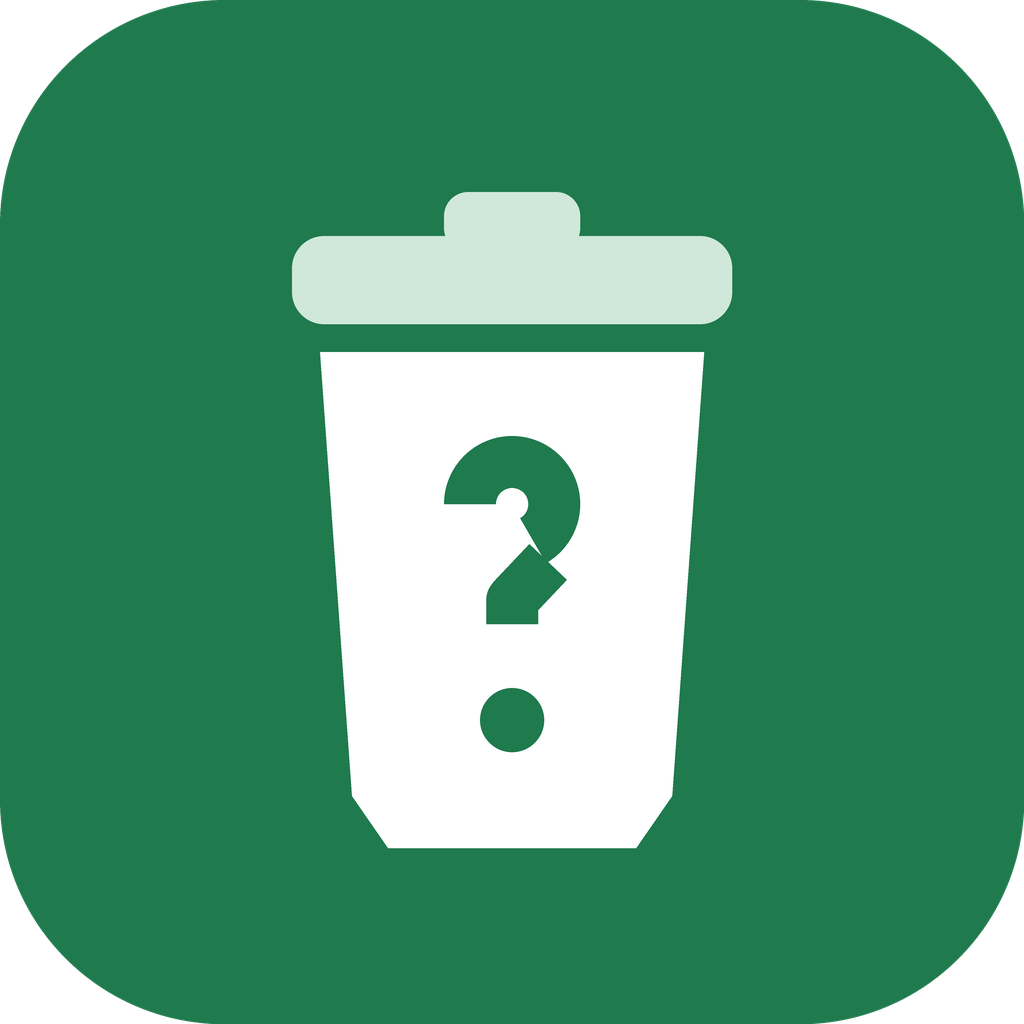
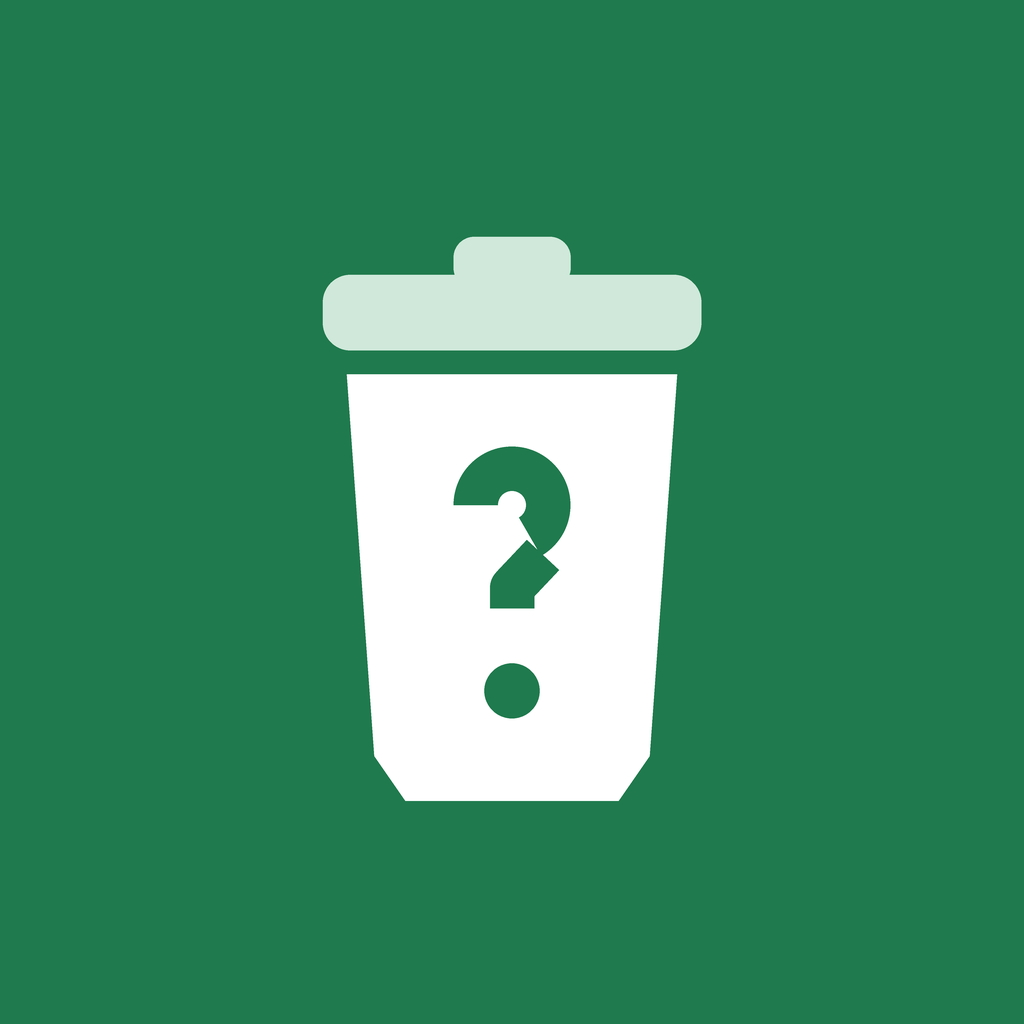
Testversion 3711a7f

diff --git a/index.html b/index.html
@@ -8,16 +8,15 @@
   <meta name="description" content="Foto machen, Antwort bekommen: In welche Tonne gehört das? Mit den Regeln deines Entsorgers, Wertstoffhöfen und Sperrmüll-Anmeldung.">
   <meta name="theme-color" content="#f4f1ea" media="(prefers-color-scheme: light)">
   <meta name="theme-color" content="#121614" media="(prefers-color-scheme: dark)">
-  <link rel="manifest" href="app.webmanifest">
+  <link rel="manifest" href="app.webmanifest?v=4">
   <!-- App-Symbole: nur PNG. Kein SVG – iPhone/iPad/Mac zeigen sonst nur den Anfangsbuchstaben. -->
-  <link rel="apple-touch-icon" sizes="180x180" href="icons/app-icon-180.png">
-  <link rel="icon" type="image/png" sizes="32x32" href="icons/favicon-32.png">
-  <link rel="icon" type="image/png" sizes="192x192" href="icons/app-icon-192.png">
+  <link rel="apple-touch-icon" sizes="180x180" href="apple-touch-icon.png?v=4">
+  <link rel="icon" type="image/png" sizes="512x512" href="icons/app-icon-512.png?v=4">
   <meta name="apple-mobile-web-app-title" content="Wohin damit?">
   <meta name="apple-mobile-web-app-capable" content="yes">
   <meta name="mobile-web-app-capable" content="yes">
   <meta name="apple-mobile-web-app-status-bar-style" content="default">
-  <link rel="stylesheet" href="app.css?v=d4f4323">
+  <link rel="stylesheet" href="app.css?v=3711a7f">
 </head>
 <body>
   <div class="app">
@@ -161,12 +160,12 @@
     </nav>
   </div>
 
-  <script src="js/regeln.js?v=d4f4323"></script>
-  <script src="js/ort-logik.js?v=d4f4323"></script>
-  <script src="js/termine.js?v=d4f4323"></script>
-  <script src="js/barcode.js?v=d4f4323"></script>
-  <script src="js/plattform.js?v=d4f4323"></script>
-  <script src="js/oeffnungszeiten.js?v=d4f4323"></script>
-  <script src="app.js?v=d4f4323"></script>
+  <script src="js/regeln.js?v=3711a7f"></script>
+  <script src="js/ort-logik.js?v=3711a7f"></script>
+  <script src="js/termine.js?v=3711a7f"></script>
+  <script src="js/barcode.js?v=3711a7f"></script>
+  <script src="js/plattform.js?v=3711a7f"></script>
+  <script src="js/oeffnungszeiten.js?v=3711a7f"></script>
+  <script src="app.js?v=3711a7f"></script>
 </body>
 </html>

diff --git a/app.js b/app.js
@@ -27,9 +27,9 @@ const SCHNELL = ['Pizzakarton', 'Kassenbon', 'Akku', 'Tetrapak', 'Glühbirne', '
 
 async function ladeDaten() {
   const [stamm, lexikon, ratgeber] = await Promise.all([
-    fetch('daten/fraktionen.json?v=d4f4323').then((r) => r.json()),
-    fetch('daten/lexikon.json?v=d4f4323').then((r) => r.json()),
-    fetch('daten/ratgeber.json?v=d4f4323').then((r) => r.json()).catch(() => null),
+    fetch('daten/fraktionen.json?v=3711a7f').then((r) => r.json()),
+    fetch('daten/lexikon.json?v=3711a7f').then((r) => r.json()),
+    fetch('daten/ratgeber.json?v=3711a7f').then((r) => r.json()).catch(() => null),
   ]);
   Z.stamm = stamm;
   Z.ratgeber = ratgeber;

diff --git a/datenschutz.html b/datenschutz.html
@@ -5,9 +5,9 @@
 <meta name="robots" content="noindex, nofollow">
 <meta name="viewport" content="width=device-width, initial-scale=1, viewport-fit=cover">
 <title>Datenschutz – Wohin damit?</title>
-<link rel="stylesheet" href="rechtstexte.css?v=d4f4323">
-<link rel="apple-touch-icon" sizes="180x180" href="icons/app-icon-180.png">
-<link rel="icon" type="image/png" sizes="32x32" href="icons/favicon-32.png">
+<link rel="stylesheet" href="rechtstexte.css?v=3711a7f">
+<link rel="apple-touch-icon" sizes="180x180" href="apple-touch-icon.png?v=4">
+<link rel="icon" type="image/png" sizes="512x512" href="icons/app-icon-512.png?v=4">
 </head>
 <body>
 <div class="huelle">

diff --git a/impressum.html b/impressum.html
@@ -5,9 +5,9 @@
 <meta name="robots" content="noindex, nofollow">
 <meta name="viewport" content="width=device-width, initial-scale=1, viewport-fit=cover">
 <title>Impressum – Wohin damit?</title>
-<link rel="stylesheet" href="rechtstexte.css?v=d4f4323">
-<link rel="apple-touch-icon" sizes="180x180" href="icons/app-icon-180.png">
-<link rel="icon" type="image/png" sizes="32x32" href="icons/favicon-32.png">
+<link rel="stylesheet" href="rechtstexte.css?v=3711a7f">
+<link rel="apple-touch-icon" sizes="180x180" href="apple-touch-icon.png?v=4">
+<link rel="icon" type="image/png" sizes="512x512" href="icons/app-icon-512.png?v=4">
 </head>
 <body>
 <div class="huelle">

diff --git a/kontakt.html b/kontakt.html
@@ -5,9 +5,9 @@
 <meta name="robots" content="noindex, nofollow">
 <meta name="viewport" content="width=device-width, initial-scale=1, viewport-fit=cover">
 <title>Kontakt – Wohin damit?</title>
-<link rel="stylesheet" href="rechtstexte.css?v=d4f4323">
-<link rel="apple-touch-icon" sizes="180x180" href="icons/app-icon-180.png">
-<link rel="icon" type="image/png" sizes="32x32" href="icons/favicon-32.png">
+<link rel="stylesheet" href="rechtstexte.css?v=3711a7f">
+<link rel="apple-touch-icon" sizes="180x180" href="apple-touch-icon.png?v=4">
+<link rel="icon" type="image/png" sizes="512x512" href="icons/app-icon-512.png?v=4">
 </head>
 <body>
 <div class="huelle">

diff --git a/sw.js b/sw.js
@@ -2,7 +2,7 @@
    Programmdateien kommen bevorzugt frisch aus dem Netz, ohne Netz aus dem
    Zwischenspeicher. Lexikon und Grundregeln sind so auch offline verfügbar.
    API-Aufrufe fasst der Service Worker nie an. */
-const VERSION = 'wohin-test-d4f4323';
+const VERSION = 'wohin-test-3711a7f';
 const HUELLE = [
   './', './index.html', './app.css', './app.js',
   './js/regeln.js', './js/ort-logik.js', './js/termine.js', './js/barcode.js', './js/plattform.js', './js/oeffnungszeiten.js',

diff --git a/README.md b/README.md
@@ -1,4 +1,4 @@
 # Wohin damit? – Testversion
 
-Automatisch erzeugte Testfassung der Oberfläche (Stand d4f4323).
+Automatisch erzeugte Testfassung der Oberfläche (Stand 3711a7f).
 Aufruf: https://gate057-lang.github.io/wohin-damit-test/
